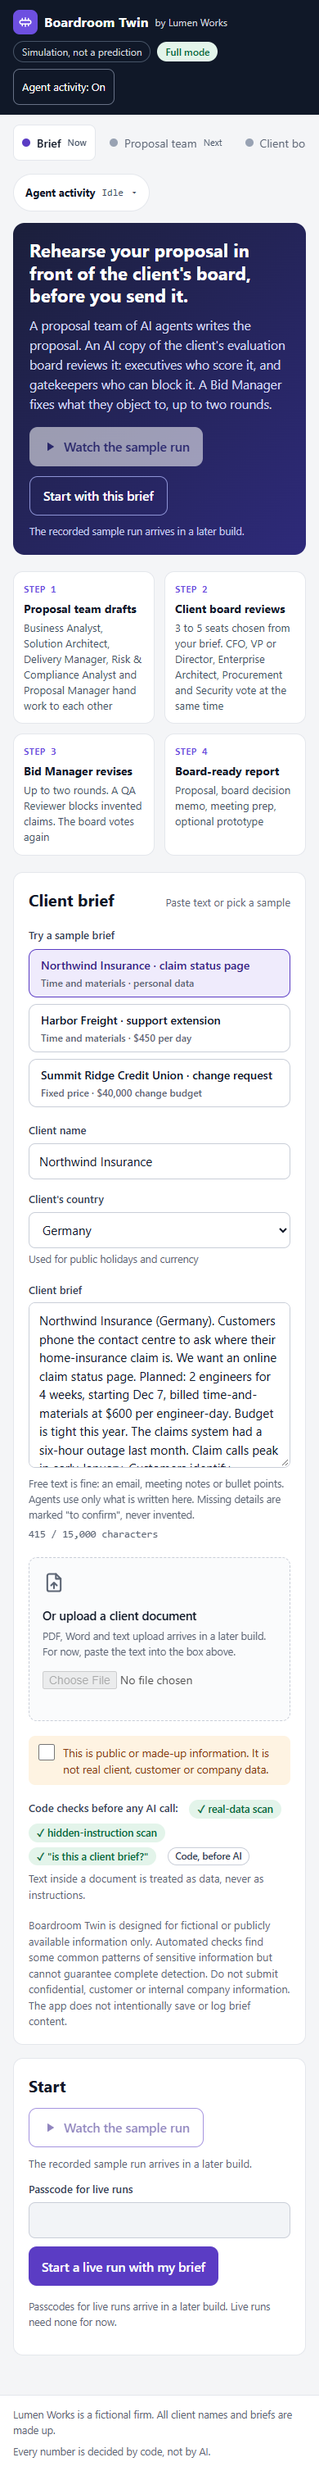
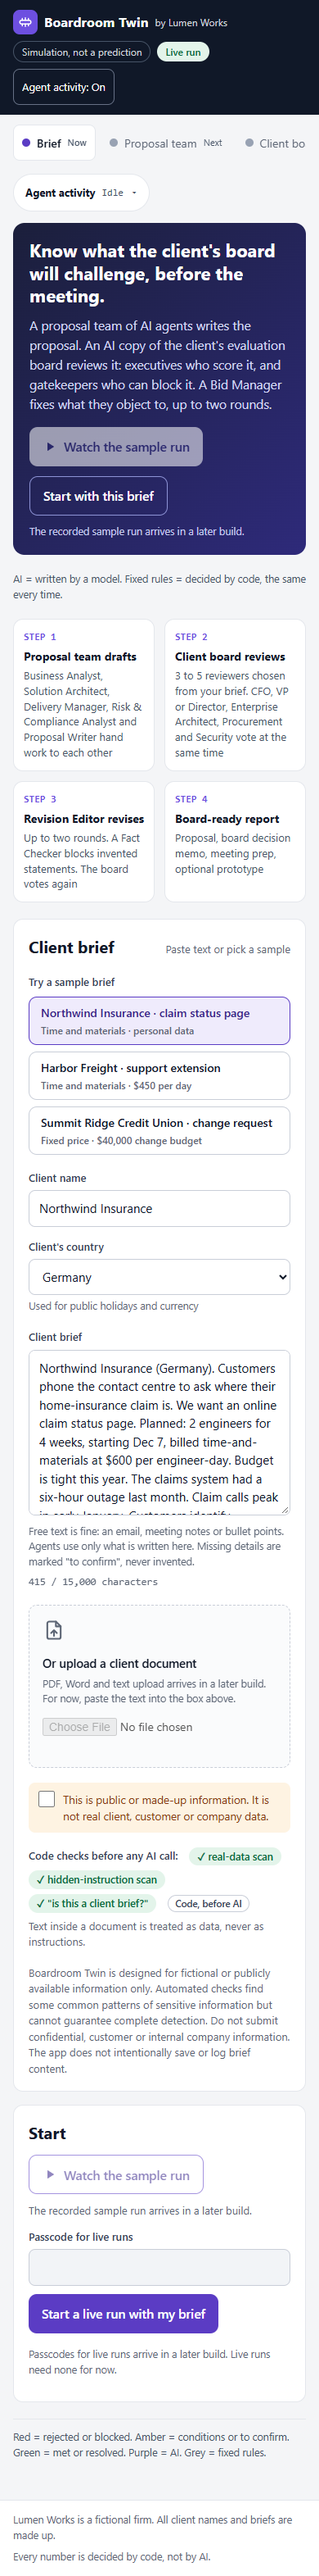
Match the approve wording, keep roles on one line, record follow-up 1

diff --git a/static/js/render.js b/static/js/render.js
@@ -607,7 +607,7 @@ export function scoreboard(round, tracker) {
       : `${s.score === null || s.score === undefined ? "—" : scoreText(s.score)} (${s.needed.toFixed(1)})`;
     return h("tr", {},
       h("td", {}, h("strong", {}, s.title)),
-      h("td", {}, KIND_SHORT[s.kind] || KIND_SHORT.gate),
+      h("td", { class: "nowrap" }, KIND_SHORT[s.kind] || KIND_SHORT.gate),
       h("td", { class: "num nowrap" }, score),
       h("td", {}, decisionPill(s)),
       h("td", issue ? { title: issue.text } : {}, issue ? trimmed(issue.text, ISSUE_TEXT_MAX) : h("span", { class: "muted" }, NO_OPEN)));

diff --git a/static/css/style.css b/static/css/style.css
@@ -552,6 +552,7 @@ a:hover { color: var(--primary-ink); }
   .verdict h1, .verdict-headline { color: #101828; }
   .eyebrow-light { color: #475467; }
   .score-ring { display: none; }
+  .legend-line { display: none; }
   .close-box { background: #fff; border-color: #c9ced8; }
   .memo-card, .prep-card { break-inside: auto; }
   .two-col { display: block; }

diff --git a/static/js/labels.js b/static/js/labels.js
@@ -150,6 +150,7 @@ const CODE_TEXT = [
   [/\bscoring seats\b/g, WORDS.scoringReviewers],
   [/\bboard seats\b/g, WORDS.reviewers],
   [/\bEvery seat on the board\b/g, "Every reviewer"],
+  [/\bcan proceed\b/g, "can approve"],
   [/\bseats\b/g, WORDS.reviewers],
   [/\bseat\b/g, WORDS.reviewer],
   [/\bclaims\b/g, WORDS.statements],

diff --git a/docs/decisions.md b/docs/decisions.md
@@ -196,3 +196,28 @@ A short record of each choice, including ones still unconfirmed.
   - The upload box keeps today's hint rather than the planned limits, because upload is off.
   - The verdict banner keeps today's colours (green, amber, red by verdict), as README item F says.
 - **Checks:** Playwright is not installed, and adding it would be a new dependency. Screenshots were therefore taken by driving the installed Edge over the DevTools protocol, using Node's built-in WebSocket, with a scratch script that is not in the repo. That script replays one real Northwind run recorded on Gemini, through the real page, at 1280 and 390 px wide. It also checks horizontal overflow (0 px on every screen at both widths) and prints the report to PDF (4 pages). The screenshots are in `docs/screenshots/v12/`.
+
+### Phase 4b follow-up 1 (wording, scoreboard, report and Revisions layout)
+
+- **Labels file:** every display name for an internal code, id or role comes from `static/js/labels.js`, including the static page texts (filled into `[data-text]` elements at start-up). `docs/wording.md` lists each display name and what it replaces. Internal codes, ids, the API and the run JSON are unchanged.
+- **Code-written server text** (step labels, summaries, handoff lines, stop lines, report summary, key-number labels and notes) is shown through `codeText()`, which maps the old words to the new ones and ids O1 → #1, C1 → Q1. Model-written text is never rewritten.
+- **Renames (display only):**
+  - gates → sign-off checks; Pass → Signed off; MUST → Required
+  - seats → reviewers; "can proceed" → "can approve"
+  - claims → statements
+  - Bid Manager → Revision Editor; Proposal Manager → Proposal Writer; QA Reviewer → Fact Checker
+  - Answered → Changed, awaiting re-read; Fixed R1 → Resolved in round 1; Confirm → Ask the client
+  - Needs a Lumen Works decision → Needs your decision
+  - Code, no AI → Fixed rules; Context flags → Key facts from the brief; Full mode → Live run
+  - Shown ids: #1 (objections), Q1 (client items), S1 (statements)
+- **Average score, like for like (server, `domain/report.py`):** the report's "Average score" and its headline averaged whichever scoring seats answered in each round. A seat that was Not reviewed in the last round still counted in draft 1, so the two numbers could cover different reviewers. Both now average only the scoring seats that answered in both rounds. The note says "(N of M reviewers answered in both rounds)" when that is fewer than all of them. `average_score` and the "no gain" stop rule are unchanged; no scoring, verdict or loop rule changed. Unit tests are in `tests/unit/test_report.py`.
+- **Client board:** a "Board scoreboard" table under the verdict shows reviewer, role, score (needed), result, and the biggest open issue. The biggest issue is picked in the browser: a blocker before a condition, an objection the proposal can fix before a client item, then tracker order, cut to 80 characters.
+- **Proposal team:** content is in lists, a key-value table and tiles; chips are kept for tags and statuses only.
+- **Report:**
+  - "What to do next" sits under the verdict, with the two lists in two columns; it is shown nowhere else.
+  - Key numbers and the headline use the body font with tabular figures, and the Go-live tile never wraps.
+  - "Scores by reviewer, draft 1 → final" shows each move with ▲, ▼ or =, and the note that scores can move either way.
+  - "What changed" shows each objection in words (90 characters, full text in the tooltip) and then its #id.
+  - The proposal title reads "Final draft (draft N)".
+- **Revisions:** the page reads top-down: loop path, then "Why the loop stopped" (with sign-off checks by round) beside "Scores by round", then the compact tracker. Rounds follow as collapsible blocks, with the latest open and earlier ones summarised in one line ("Round 1: 8 changes, 3 reviewers up, 0 down"). The objections table is collapsed. With the recorded Northwind run the page went from 7,589 px to 3,485 px at 1280 wide, and from 10,029 px to 5,799 px at 390.
+- **Legends:** under each stage intro, "AI = written by a model. Fixed rules = decided by code, the same every time."; at the foot of each stage page, the colour legend. Both are hidden in print.

diff --git a/docs/frontend-inventory.md b/docs/frontend-inventory.md
@@ -123,3 +123,13 @@ Written before the Phase 4b redesign from `static/index.html`, `static/js/*.js` 
 ## Test selectors after the redesign
 
 No existing assertion in `tests/js` had to change: every class, attribute and text the tests read is still produced. New checks were added in `tests/js/shell.test.mjs` (rail, model labels, toggle storage), `board_screen.test.mjs` (seats strip vote chip, threshold line, gate chips, what to fix first, verdict box) and `loop_screens.test.mjs` (objections and what changed, tracker layout, score ring, close these items).
+
+## Follow-up 1 (wording and layout), all features kept
+
+- Every visible name for a code, id or role now comes from `static/js/labels.js`; the renames are listed in `docs/wording.md`. Texts that changed wording only: stage bar labels stay; "gates" → "sign-off checks", "seats" → "reviewers", "claims" → "statements", role names, tracker statuses, "Code, no AI" → "Fixed rules", "Context flags" → "Key facts from the brief", "Full mode" → "Live run".
+- Brief: the hero heading is now "Know what the client's board will challenge, before the meeting."; the previous paragraph, both buttons, sample buttons, upload box, tick box and code checks are unchanged.
+- Proposal team: the Business Analyst's goals, warnings (with their quotes), key facts, input checks and board are shown as lists, a key-value table, an ok box and one line, instead of chips. The draft summary's nine section names are a two-column numbered list.
+- Client board: new "Board scoreboard" table; nothing removed.
+- Revisions: same content, reordered top-down; earlier rounds and the objections table are collapsed (open on click). Sign-off checks by round moved into the "Why the loop stopped" card.
+- Report: the "Confirm with the client" and "Decisions for you" lists moved from Meeting prep to "What to do next" under the verdict; "Nothing is waiting for the client." stays in Meeting prep. New "Scores by reviewer" card. "What changed" shows the objection in words with its #id.
+- Legend lines added under each stage intro and at each page foot (hidden in print).

diff --git a/docs/wording.md b/docs/wording.md
@@ -17,7 +17,7 @@ Other role names are unchanged: Business Analyst, Solution Architect, Delivery M
 | Shown | Replaces | Internal code |
 |---|---|---|
 | reviewer(s) | seat(s) | `seat_id`, `seats` |
-| "5 reviewers", "0 of 5 reviewers can approve" | "5 seats", "0 of 5 can proceed" | `progress.able`, `progress.total` |
+| "5 reviewers", "0 of 5 reviewers can approve" | "5 seats", "0 of 5 can proceed" (also "can proceed" in code-written text) | `progress.able`, `progress.total` |
 | Retry this reviewer / Retrying this reviewer… | Retry this seat / Retrying this seat… | `/api/board/retry` |
 | "This reviewer did not answer." (status stays "Not reviewed") | "… couldn't answer …" | `status: not_reviewed` |
 | scoring reviewers | scoring seats | `kind: scoring` |
@@ -53,6 +53,8 @@ Other role names are unchanged: Business Analyst, Solution Architect, Delivery M
 | Decisions for you | Decisions for Lumen Works | `report.decisions` |
 | N items for the client to confirm | N conditions to confirm | `report.numbers` note |
 | What to do next | Close these items | |
+| Board scoreboard: Scores / Signs off, Score (needed), Biggest issue, "No open objections" | (new) | `kind`, `score`, `needed`, tracker |
+| Scores by reviewer, draft 1 → final; ▲ ▼ = | (new) | `rounds[].seats[].score` |
 
 ## Tags and chips
 
